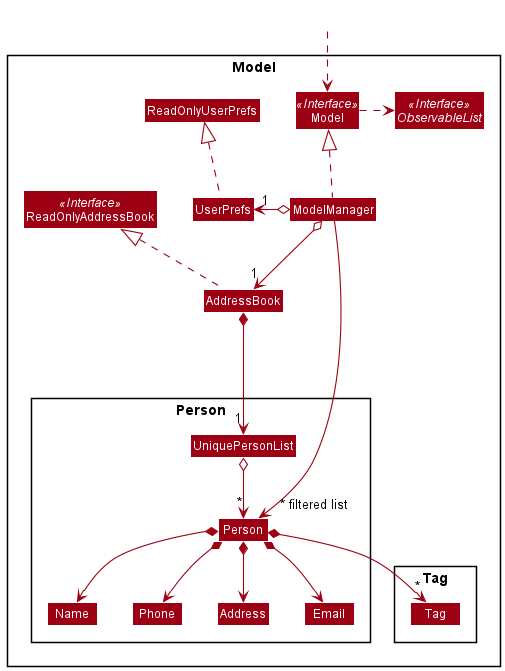
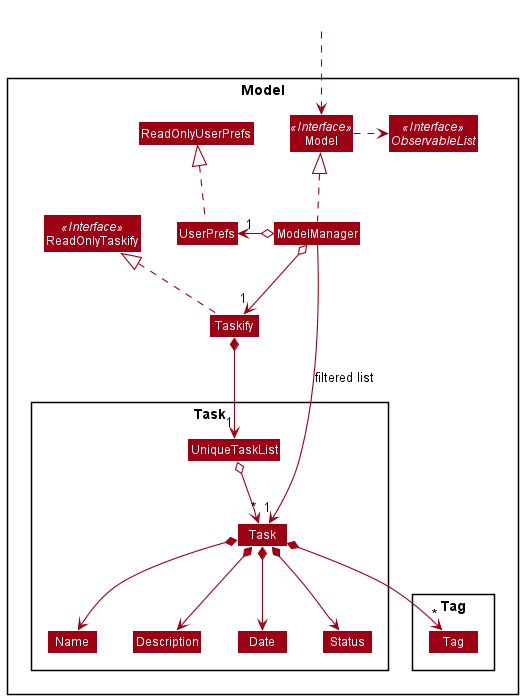
Change ModelClassDiagram

diff --git a/docs/DeveloperGuide.md b/docs/DeveloperGuide.md
@@ -120,7 +120,7 @@ The `UI` component,
 ![Structure of the Logic Component](images/LogicClassDiagram.png)
 
 **API** :
-[`Logic.java`](https://github.com/se-edu/addressbook-level3/tree/master/src/main/java/seedu/address/logic/Logic.java)
+[`Logic.java`](https://github.com/AY2021S2-CS2103T-W14-4/tp/blob/master/src/main/java/seedu/taskify/logic/Logic.java)
 
 1. `Logic` uses the `TaskifyParser` class to parse the user command.
 1. This results in a `Command` object which is executed by the `LogicManager`.
@@ -141,13 +141,13 @@ call.
 
 ![Structure of the Model Component](images/ModelClassDiagram.png)
 
-**API** : [`Model.java`](https://github.com/se-edu/addressbook-level3/tree/master/src/main/java/seedu/address/model/Model.java)
+**API** : [`Model.java`](https://github.com/AY2021S2-CS2103T-W14-4/tp/blob/master/src/main/java/seedu/taskify/model/Model.java)
 
 The `Model`,
 
 * stores a `UserPref` object that represents the user’s preferences.
-* stores the address book data.
-* exposes an unmodifiable `ObservableList<Person>` that can be 'observed' e.g. the UI can be bound to this list so that
+* stores taskify data.
+* exposes an unmodifiable `ObservableList<Task>` that can be 'observed' e.g. the UI can be bound to this list so that
   the UI automatically updates when the data in the list change.
 * does not depend on any of the other three components.
 
